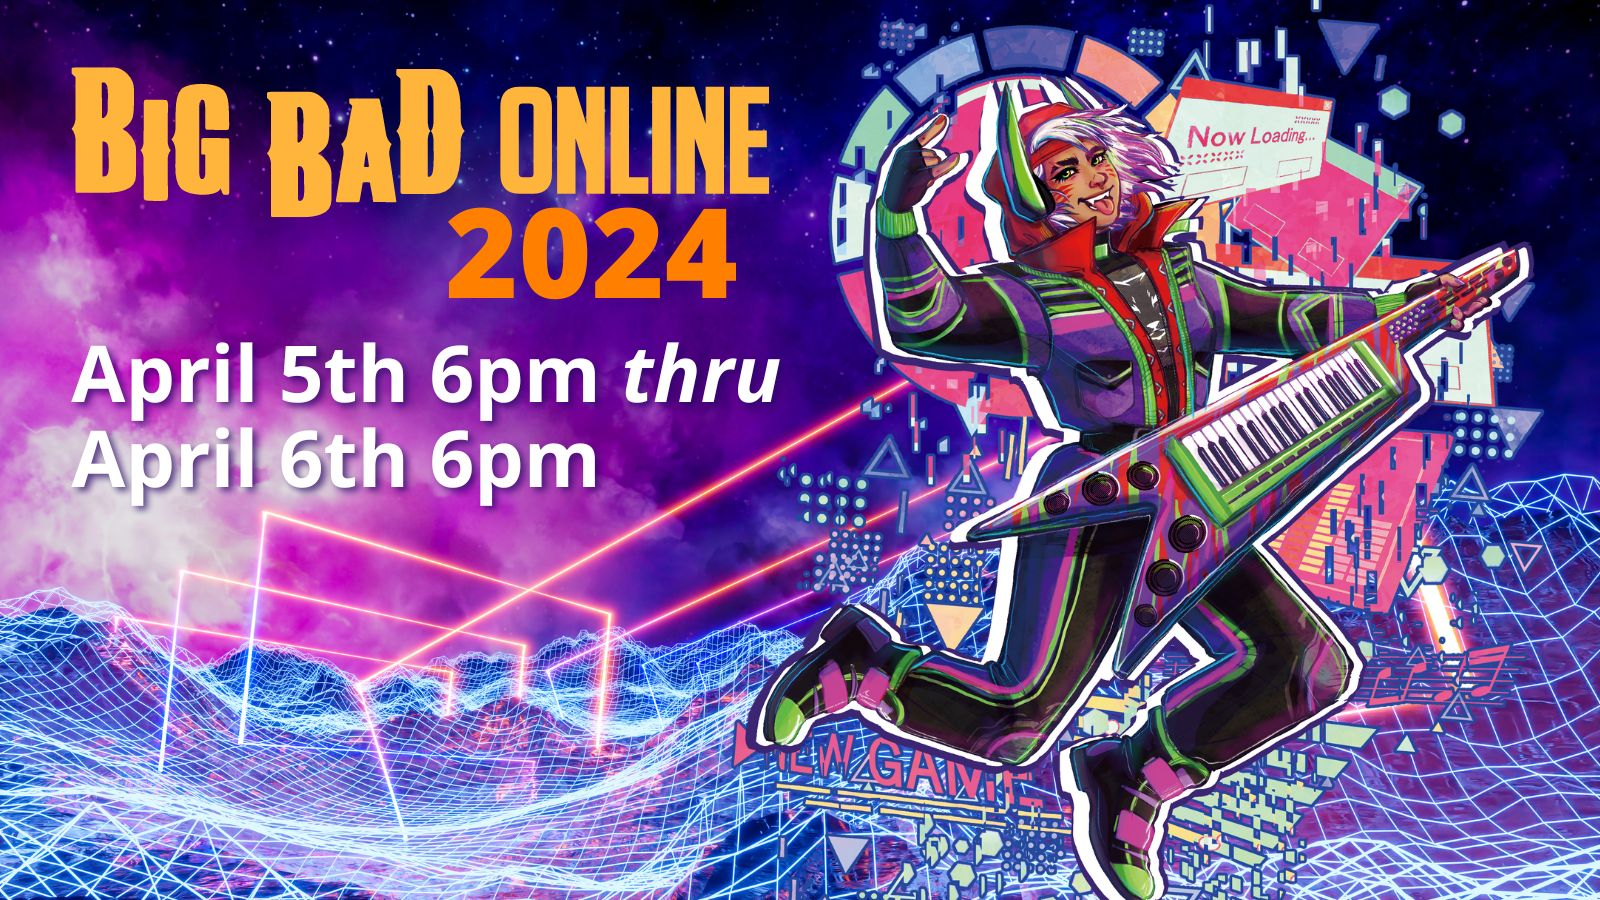
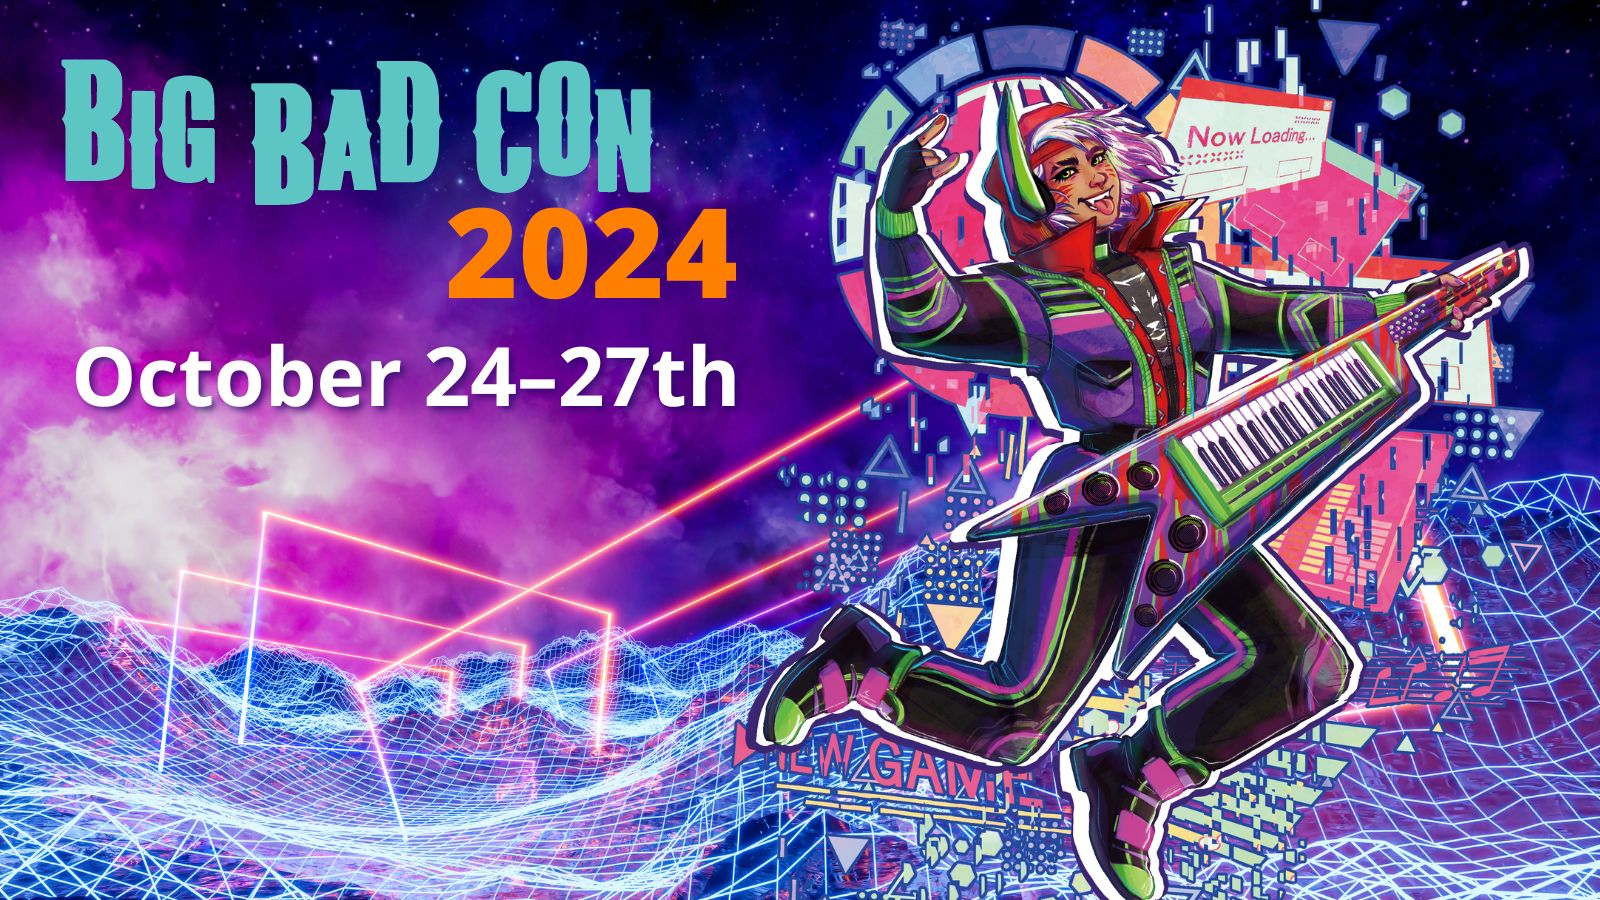
content: updated for BBC 2024

Changed region(s): [[0.0312, 0.3733, 0.5, 0.56], [0.0312, 0.0622, 0.5, 0.2489]]

diff --git a/src/_data/eventData.js b/src/_data/eventData.js
@@ -407,7 +407,7 @@ module.exports = async () => {
 		}
 		data = data.filter((event) => event.eventStatus === 1);
 		// Only show dates in the future (minus 1 month)
-		data = data.filter((event) => dayjs(event.eventStartDate).isAfter(dayjs().subtract(2, "weeks")));
+		data = data.filter((event) => dayjs(event.eventStartDate).isAfter(dayjs().subtract(1, "weeks")));
 		console.log("Number of Events:", data.length);
 
 		/* ---------------- fix data if missing slug and decode text ---------------- */

diff --git a/src/faq-in-person.md b/src/faq-in-person.md
@@ -16,7 +16,7 @@ _template: page
 
 ### When and Where is Big Bad Con?
 
-October 24 6PM to October 27, 2023 8PM.
+October 24 6PM to October 27, 2024 8PM.
 
 Hyatt Regency San Francisco Airport\
 1333 Old Bayshore Hwy\
@@ -30,7 +30,7 @@ Burlingame, CA 94010
 
 * New accounts should be created immediately and you should receive an email within a few minutes.
 * Event Submissions and Games on Demand sign ups are usually reviewed within two weeks. Our events team will be in touch!
-* Scholarship applications will be reviewed after the submission deadline (July 31) and we'll reach out to recipients by August 22.
+* Scholarship applications will be reviewed after the submission deadline and we'll reach out to recipients shortly after.
 
 If you haven't heard back by any of these dates, email us at info@bigbadcon.com.
 
@@ -83,7 +83,7 @@ Our event coordinators should reach out to you within two weeks. If you haven't 
 
 ### When are games scheduled?
 
-We schedule all games after event submissions close on 7/31. You should hear back by 8/15 with your schedule.
+We schedule all games after event submissions close. You should hear back shortly after with your schedule.
 
 # Website FAQ
 

diff --git a/src/events-in-person.md b/src/events-in-person.md
@@ -1,6 +1,7 @@
 ---
 layout: layouts/events.njk
 title: Events
+permalink: events/
 published: true
 description: ''
 tags: pages
@@ -8,7 +9,7 @@ navGroup: Events
 navTitle: Events
 order: 0
 icon: calendar-clock
-eventType: 'both'
+eventType: 'in person'
 _template: page
 ---
 
@@ -16,10 +17,14 @@ _template: page
 
 <!-- The event schedule is now available [here](https://docs.google.com/spreadsheets/d/1VmxraTllYScL33AH-5EzrqAkwppS5EPHMDq1oz7BobA/edit?mc_cid=eaf52d5fe0\&mc_eid=UNIQID#gid=161509786). Signups are open now!
 
+ -->
+
+Big Bad Con 2024 will be happening October 24–27th. Events will be displayed here as soon as we start accepting submissions.
+
+We will be opening for event submission soon! Stay tuned!
+
 [Scheduled Events FAQ](https://www.bigbadcon.com/scheduled-events-faq/){.icon-calendar-clock}
 
 [Games on Demand FAQ](/games-on-demand-how-it-works/){.icon-games-on-demand}
 
-[Panel and Workshop FAQ](https://www.bigbadcon.com/panel-faq/){.icon-light-bulb} -->
-
-Big Bad Online will be happening Apr 5 - Apr 6 2024. We will be populating the events list as panels are added.
+[Panel and Workshop FAQ](https://www.bigbadcon.com/panel-faq/){.icon-light-bulb}

diff --git a/src/hotel.md b/src/hotel.md
@@ -19,15 +19,7 @@ Big Bad Con will be hosted at the:
 Burlingame, CA 94010\
 (650) 347-1234
 
-[Book a room at the Hyatt](https://www.hyatt.com/en-US/group-booking/SFOBU/G-BBC4){.icon-hotel}
-
-**Update 7/28**: The convention hotel is nearly full and not all nights are available, or may be available but no longer at our group rate of $145/night.
-
-**Update 8/8:** All rooms at the Hyatt are now booked, however we've secured a group rate at a nearby hotel:
-
-* [Crowne Plaza San Francisco Airport](https://www.crowneplaza.com/redirect?path=hd\&brandCode=CP\&localeCode=en\&regionCode=1\&hotelCode=URLCA&_PMID=99801505\&GPC=BIG\&cn=no\&viewfullsite=true) (Group Rate of $124/night. 9 minute walk to the Hyatt)
-
-**Update 9/14**: The Hyatt has release a few more rooms. There's a limited number, but if you haven't already booked a room, or booked somewhere else and want to move closer, follow the link above to book at the Hyatt.
+<!-- [Book a room at the Hyatt](https://www.hyatt.com/en-US/group-booking/SFOBU/G-BBC4){.icon-hotel} -->
 
 If you aren't able to book your stay at the Hyatt or Crown Plaza, here are some nearby hotels that may have availability:
 

diff --git a/src/index-in-person.md b/src/index-in-person.md
@@ -1,0 +1,30 @@
+---
+tags: pages
+layout: layouts/home.njk
+title: Big Bad Con
+permalink: /
+published: true
+description: >-
+  Big Bad Con is a tabletop and live action gaming convention featuring
+  fantastic games and even better company! We’re a volunteer run 501c3
+  non-profit!
+ogImage: ''
+navGroup: ''
+navTitle: ''
+order: null
+icon: ''
+eventType: 'in person'
+_template: page
+---
+
+### Big Bad Con
+
+We are excited to announce Big Bad Con will be October 24th — October 27th.
+
+Badges will be available through our crowdfunding starting soon!
+
+Stay tuned for when event submissions, Games on Demand, and volunteer signs ups will begin!
+
+**Hyatt Regency San Francisco Airport**\
+1333 Old Bayshore Hwy\
+Burlingame, CA 94010

diff --git a/src/cards/volunteer.md b/src/cards/volunteer.md
@@ -4,12 +4,8 @@ order: 1
 published: true
 ---
 
-<!--Big Bad Con is a purely volunteer run organization. Starting in early 2023 we'll re-open recruitment for Rangers. Check back here to join the team!--> 
-
-Join the Rangers:
+Big Bad Con is a purely volunteer run organization. We'll be open for volunteer shifts soon!
 
 [Learn about the Rangers](https://www.bigbadcon.com/rangers/){.icon-paw}
 
-[Volunteer Shifts](https://www.bigbadcon.com/volunteer-shifts/){.icon-calendar-clock}
-
-<!--[Sign up to help!](https://www.bigbadcon.com/volunteer-shifts/){.icon-pencil-square}--> 
+<!-- [Volunteer Shifts](https://www.bigbadcon.com/volunteer-shifts/){.icon-calendar-clock} -->

diff --git a/src/cards/attend.md b/src/cards/attend.md
@@ -6,11 +6,9 @@ image: ''
 alt: ''
 ---
 
-Welcome to Big Bad Online!
+Badges for Big Bad Con will be available via out fundraiser which we will be announcing soon!
 
-[Register to Attend](https://www.bigbadcon.com/register/){.icon-calendar-clock}
-
-[Support our Fundraiser](https://www.mightycause.com/story/Bigbadonline2024){.icon-party}
+[Hotel Info](https://www.bigbadcon.com/hotel/){.icon-hotel}
 
 <!--Welcome to Big Bad Con:
 

diff --git a/src/exhibitors/dodecadonuts.md b/src/exhibitors/dodecadonuts.md
@@ -5,7 +5,7 @@ twitter: DodecaDonuts
 instagram: dodecadonuts
 website_name: Dodecadonuts
 website_url: 'https://www.etsy.com/shop/Dodecadonuts'
-published: true
+published: false
 ---
 
 Dungeons, Dragons, Donuts & Dice. If you love RPGs and you love pastries, you’ll love Dodecadonuts. We make pastry-themed DnD accessories and other merchandise. Guaranteed Gluten and Sugar-free.

diff --git a/src/events-online.md b/src/events-online.md
@@ -1,0 +1,16 @@
+---
+layout: layouts/page.njk
+title: Events
+permalink: events/
+published: true
+description: ''
+tags: pages
+navGroup: Events
+navTitle: Events
+order: 0
+icon: calendar-clock
+eventType: 'online'
+_template: page
+---
+
+Big Bad Online will be happening Apr 5 - Apr 6 2024. We will be populating the events list as panels are added.

diff --git a/src/past-events.md b/src/past-events.md
@@ -28,3 +28,5 @@ Big Bad Con has a long history, starting all the way back in 2010! Our blog goes
 [Big Bad Online 2022](/past-events/big-bad-online-2022)
 
 [Big Bad Online 2023](https://www.youtube.com/playlist?list=PLY22glPJVwSLz3itLhB3R4P35xEemHUqK)
+
+[Big Bad Online 2024](https://www.youtube.com/playlist?list=PLY22glPJVwSJHx2z80YFb1h9Md-cZmZM0)

diff --git a/src/index-online.md b/src/index-online.md
@@ -2,6 +2,7 @@
 tags: pages
 layout: layouts/home.njk
 title: Big Bad Con
+permalink: /
 published: true
 description: >-
   Big Bad Con is a tabletop and live action gaming convention featuring
@@ -12,7 +13,7 @@ navGroup: ''
 navTitle: ''
 order: null
 icon: ''
-eventType: 'both'
+eventType: 'online'
 _template: page
 ---
 

diff --git a/src/exhibitors/three-dog-quest.md b/src/exhibitors/three-dog-quest.md
@@ -1,6 +1,6 @@
 ---
 title: Three Dog Quest LLC (Indie Press Revolution)
-published: true
+published: false
 logo: /images/Three Dog Quest.jpg
 website_name: Three Dog Quest
 website_url: 'https://www.facebook.com/threedogquest'
